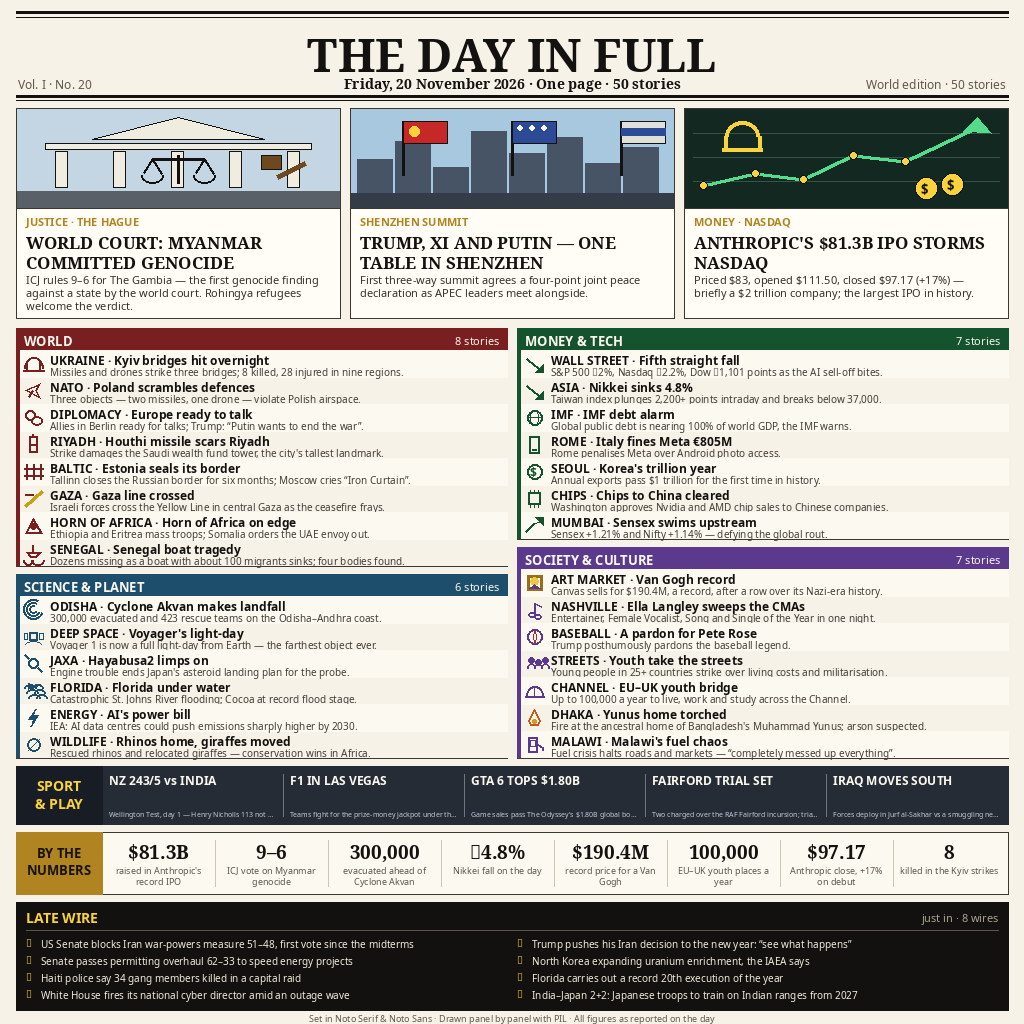
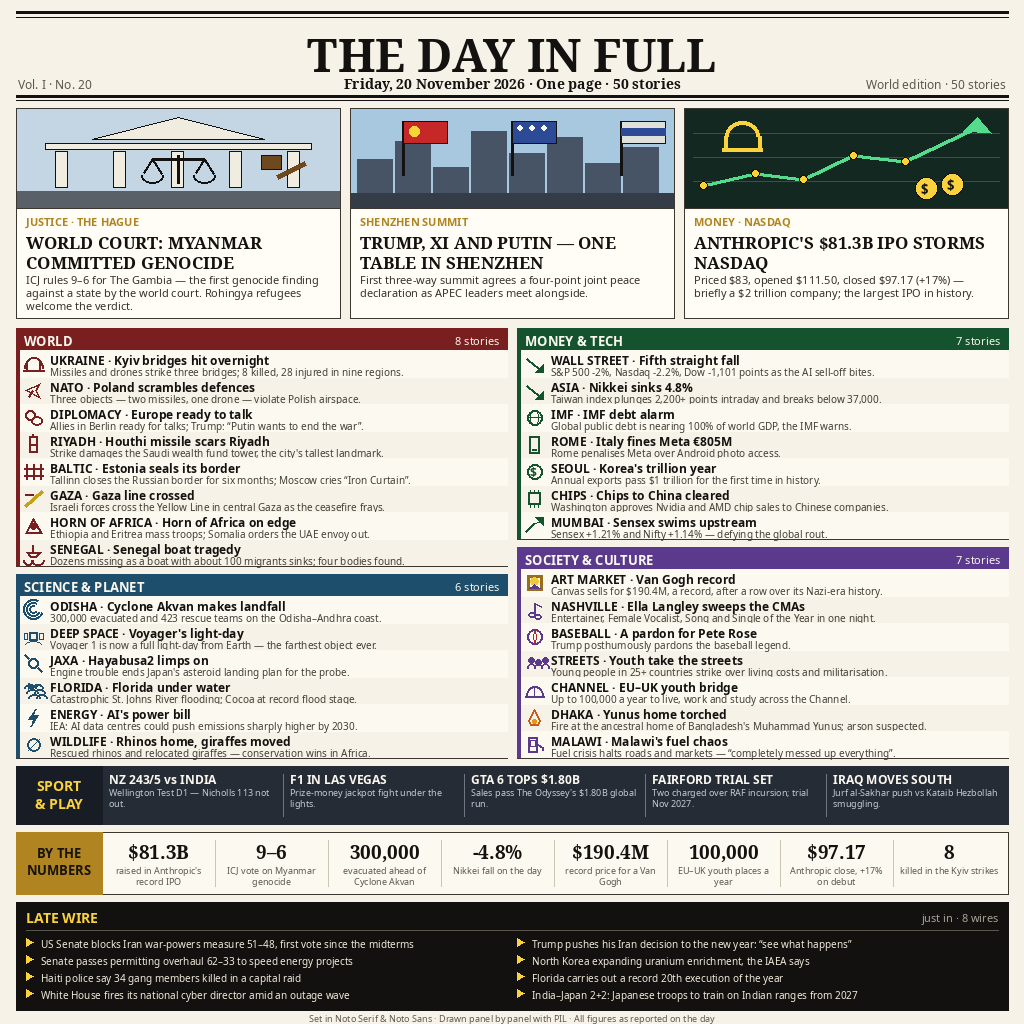
Revision 1: fix tofu minus glyphs (U+2212 -> ASCII hyphen), drawn triangle bullets in Late Wire, sport decks wrap to 2 lines without truncation

diff --git a/dayfront.py b/dayfront.py
@@ -101,7 +101,7 @@ WORLD = [
 
 MONEY = [
     ("WALL STREET", "Fifth straight fall",
-     "S&P 500 \u22122%, Nasdaq \u22122.2%, Dow \u22121,101 points as the AI sell-off bites.", "down"),
+     "S&P 500 -2%, Nasdaq -2.2%, Dow -1,101 points as the AI sell-off bites.", "down"),
     ("ASIA", "Nikkei sinks 4.8%",
      "Taiwan index plunges 2,200+ points intraday and breaks below 37,000.", "down"),
     ("IMF", "IMF debt alarm",
@@ -149,11 +149,11 @@ SOCIETY = [
 ]
 
 SPORT = [
-    ("NZ 243/5 vs INDIA", "Wellington Test, day 1 \u2014 Henry Nicholls 113 not out."),
-    ("F1 IN LAS VEGAS", "Teams fight for the prize-money jackpot under the lights."),
-    ("GTA 6 TOPS $1.80B", "Game sales pass The Odyssey's $1.80B global box-office run."),
-    ("FAIRFORD TRIAL SET", "Two charged over the RAF Fairford incursion; trial Nov 2027."),
-    ("IRAQ MOVES SOUTH", "Forces deploy in Jurf al-Sakhar vs a smuggling network."),
+    ("NZ 243/5 vs INDIA", "Wellington Test D1 \u2014 Nicholls 113 not out."),
+    ("F1 IN LAS VEGAS", "Prize-money jackpot fight under the lights."),
+    ("GTA 6 TOPS $1.80B", "Sales pass The Odyssey's $1.80B global run."),
+    ("FAIRFORD TRIAL SET", "Two charged over RAF incursion; trial Nov 2027."),
+    ("IRAQ MOVES SOUTH", "Jurf al-Sakhar push vs Kataib Hezbollah smuggling."),
 ]
 
 WIRE = [
@@ -173,7 +173,7 @@ NUMBERS_COUNTED = [
     ("$81.3B", "raised in Anthropic's record IPO"),
     ("9\u20136", "ICJ vote on Myanmar genocide"),
     ("300,000", "evacuated ahead of Cyclone Akvan"),
-    ("\u22124.8%", "Nikkei fall on the day"),
+    ("-4.8%", "Nikkei fall on the day"),
     ("$190.4M", "record price for a Van Gogh"),
     ("100,000", "EU\u2013UK youth places a year"),
 ]
@@ -546,10 +546,10 @@ for i, (head, deck) in enumerate(SPORT):
     x = M + 86 + i * CELLW
     if i:
         d.line([x, SY + 8, x, SY + SH - 8], fill=(110, 118, 132), width=1)
-    hf, hl, hlh = fit_lines(d, head, SANS_B, 12, 9, CELLW - 14, 2)
-    draw_lines(d, x + 7, SY + 6, hl, hf, hlh, (250, 247, 238))
-    dfnt, dt = one_line(d, deck, SANS, 9, 7, CELLW - 14)
-    d.text((x + 7, SY + SH - 15), dt, font=dfnt, fill=(196, 202, 214))
+    hf, hl, hlh = fit_lines(d, head, SANS_B, 12, 9, CELLW - 14, 1)
+    yy = draw_lines(d, x + 7, SY + 5, hl, hf, hlh, (250, 247, 238))
+    dfnt, dl, dlh = fit_lines(d, deck, SANS, 9, 8, CELLW - 14, 2)
+    draw_lines(d, x + 7, yy + 1, dl, dfnt, dlh, (196, 202, 214))
 
 # --- by the numbers band
 NY = SY + SH + 8
@@ -590,7 +590,7 @@ for i, item in enumerate(WIRE):
     col, row = i % 2, i // 2
     x = M + 10 + col * (WCOLW + 10)
     y = WY + 34 + row * ((WH - 40) // 4)
-    d.text((x, y), "\u25b8", font=F(SANS_B, 10), fill=(250, 210, 60))
+    d.polygon([(x, y + 2), (x, y + 10), (x + 7, y + 6)], fill=(250, 210, 60))
     fnt, txt = one_line(d, item, SANS, 10, 8, WCOLW - 16)
     d.text((x + 15, y + 1), txt, font=fnt, fill=WIRE_TX)
 
